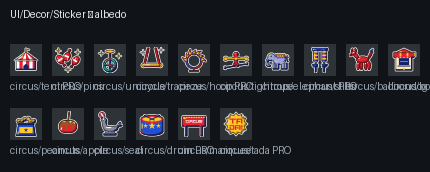
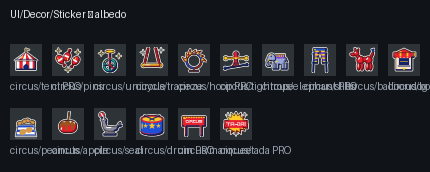
stickers: Circus quality pass (balloondog, peanuts, tada, stilts, tightrope, elephant)
Claude-Session: https://claude.ai/code/session_01Vw2wrLZqzqnm52RH44jqZN

diff --git a/Tools/sticker_packs/circus.py b/Tools/sticker_packs/circus.py
@@ -111,12 +111,12 @@ def _():
     return [fire, hoop, shade, shine]
 
 
-@sticker("circus", "tightrope", "Tightrope", [WHITE, RED, NAVY, GOLD], ink=1.0)
+@sticker("circus", "tightrope", "Tightrope", [BLUE, RED, NAVY, GOLD], ink=1.0)
 def _():
-    rope = U(seg(-0.84, -0.6, 0.84, -0.3, 0.05), circle(-0.84, -0.6, 0.11), circle(0.84, -0.3, 0.11))
-    walker = U(circle(0.0, 0.42, 0.2), taper(0.0, 0.3, 0.0, -0.1, 0.17, 0.12), seg(0.0, -0.1, -0.16, -0.43, 0.1), seg(0.0, -0.1, 0.16, -0.43, 0.1),
-               seg(0.0, 0.22, -0.28, 0.1, 0.085), seg(0.0, 0.22, 0.28, 0.1, 0.085))
-    pole = U(seg(-0.84, 0.1, 0.84, 0.1, 0.075), circle(-0.8, 0.1, 0.16), circle(0.8, 0.1, 0.16), _glint(walker, -0.07, 0.5, 0.04, 0.04, 0.0))
+    rope = U(seg(-0.84, -0.64, 0.84, -0.36, 0.06), circle(-0.84, -0.64, 0.12), circle(0.84, -0.36, 0.12))
+    walker = U(circle(0.0, 0.46, 0.2), taper(0.0, 0.3, 0.0, -0.12, 0.17, 0.12), seg(-0.06, -0.12, -0.14, -0.44, 0.095), seg(0.06, -0.12, 0.14, -0.44, 0.095),
+               oval(-0.2, -0.47, 0.13, 0.07), oval(0.2, -0.47, 0.13, 0.07), seg(-0.1, 0.2, -0.36, 0.14, 0.08), seg(0.1, 0.2, 0.36, 0.14, 0.08))
+    pole = U(seg(-0.84, 0.14, 0.84, 0.14, 0.07), circle(-0.8, 0.14, 0.16), circle(0.8, 0.14, 0.16))
     shade = _rim(U(rope, walker), 0.1)
     return [rope, walker, shade, pole]
 
@@ -128,35 +128,43 @@ def _():
     ear = oval(-0.32, 0.14, 0.17, 0.26, 0.2)
     trunk = brush([(-0.7, 0.12), (-0.84, -0.15), (-0.8, -0.4), (-0.62, -0.46)], [0.13, 0.11, 0.1, 0.09])
     legs = U(box(-0.28, -0.48, 0.12, 0.26, 0.05), box(-0.02, -0.48, 0.12, 0.26, 0.05), box(0.38, -0.48, 0.12, 0.26, 0.05), box(0.62, -0.48, 0.12, 0.26, 0.05))
-    tail = seg(0.62, 0.15, 0.76, -0.12, 0.05)
+    tail = taper(0.6, 0.12, 0.74, -0.14, 0.06, 0.035)
     body = U(torso, head, trunk, legs, tail)
-    blanket = U(box(0.18, 0.32, 0.36, 0.14, 0.05), *[circle(-0.0 + 0.18 * k, 0.2, 0.09) for k in range(5)])
+    blanket = U(box(0.18, 0.32, 0.36, 0.14, 0.05), *[circle(-0.09 + 0.18 * k, 0.2, 0.1) for k in range(4)])
     eye = circle(-0.52, 0.28, 0.05)
-    shade = U(_rim(body, 0.1), eye)
-    trim = U(*[regpoly(0.0 + 0.18 * k, 0.3, 4, 0.075) for k in range(5)], seg(-0.14, 0.43, 0.5, 0.43, 0.03), _glint(head, -0.62, 0.38, 0.1, 0.05, 0.9), _glint(torso, -0.12, -0.12, 0.1, 0.04, 0.4))
+    shade = U(_rim(body, 0.09), _rim(ear, 0.07), eye)
+    trim = U(*[regpoly(-0.09 + 0.18 * k, 0.3, 4, 0.075) for k in range(4)], taper(-0.7, 0.02, -0.8, -0.14, 0.05, 0.03), seg(-0.14, 0.43, 0.5, 0.43, 0.03), _glint(head, -0.62, 0.38, 0.1, 0.05, 0.9), _glint(torso, -0.12, -0.12, 0.1, 0.04, 0.4))
     return [body, blanket, shade, trim]
 
 
 @sticker("circus", "stilts", "Stilts", [PURP, BLUE, NAVY, GOLD], ink=1.0)
 def _():
-    pants = U(seg(-0.32, 0.0, -0.32, 0.58, 0.19), seg(0.32, 0.0, 0.32, 0.58, 0.19))
-    stilts = U(seg(-0.32, -0.88, -0.32, 0.05, 0.055), seg(0.32, -0.88, 0.32, 0.05, 0.055), box(-0.32, -0.5, 0.17, 0.055, 0.03), box(0.32, -0.5, 0.17, 0.055, 0.03),
-               oval(-0.36, -0.38, 0.22, 0.09), oval(0.36, -0.38, 0.22, 0.09), box(0, 0.8, 0.58, 0.11, 0.05))
-    shade = _rim(U(pants, stilts), 0.1)
-    shine = U(inter(pants, stripes(0.26, math.pi / 2, 0.45, 0.04)), _glint(pants, -0.42, 0.28, 0.2, 0.05, math.pi / 2), _glint(stilts, -0.52, 0.8, 0.1, 0.035, 0.0))
-    return [pants, stilts, shade, shine]
+    legs = U(taper(-0.22, 0.58, -0.3, -0.04, 0.2, 0.12), taper(0.22, 0.58, 0.3, -0.04, 0.2, 0.12))
+    poles = U(seg(-0.5, -0.88, -0.46, 0.42, 0.055), seg(0.5, -0.88, 0.46, 0.42, 0.055), box(-0.36, -0.22, 0.2, 0.05, 0.03), box(0.36, -0.22, 0.2, 0.05, 0.03),
+              oval(-0.34, -0.12, 0.2, 0.09), oval(0.34, -0.12, 0.2, 0.09), box(0.0, 0.76, 0.5, 0.13, 0.05), circle(-0.46, 0.46, 0.09), circle(0.46, 0.46, 0.09))
+    shade = _rim(U(legs, poles), 0.1)
+    shine = U(inter(legs, stripes(0.26, math.pi / 2, 0.45, 0.0)), _glint(legs, -0.3, 0.4, 0.14, 0.045, 1.5), _glint(poles, -0.4, 0.78, 0.1, 0.035, 0.0))
+    return [legs, poles, shade, shine]
 
 
 @sticker("circus", "balloondog", "Balloon dog", [RED, BLUE, DKRED, WHITE], ink=1.0)
 def _():
-    parts = [oval(0.05, 0.02, 0.5, 0.26, 0.0), oval(-0.48, 0.34, 0.15, 0.3, 0.7), oval(-0.66, 0.52, 0.22, 0.16, 0.2), oval(-0.88, 0.4, 0.1, 0.1),
-             oval(-0.5, 0.78, 0.08, 0.15, 0.4), oval(-0.78, 0.76, 0.08, 0.15, -0.3),
-             oval(-0.3, -0.45, 0.13, 0.34), oval(-0.04, -0.45, 0.13, 0.34), oval(0.3, -0.45, 0.13, 0.34), oval(0.56, -0.45, 0.13, 0.34),
-             oval(0.66, 0.4, 0.11, 0.34, -0.45)]
+    chest = oval(-0.12, 0.0, 0.3, 0.3)
+    waist = oval(0.2, 0.04, 0.2, 0.2)
+    hips = oval(0.5, 0.0, 0.3, 0.28)
+    neck = oval(-0.3, 0.28, 0.14, 0.22, 0.6)
+    head = circle(-0.44, 0.5, 0.22)
+    snout = oval(-0.7, 0.42, 0.2, 0.13, -0.25)
+    ears = U(oval(-0.5, 0.78, 0.075, 0.15, 0.3), oval(-0.3, 0.74, 0.075, 0.14, -0.3))
+    legs = [oval(-0.26, -0.5, 0.14, 0.3), oval(0.0, -0.5, 0.14, 0.3), oval(0.42, -0.5, 0.14, 0.3), oval(0.66, -0.5, 0.14, 0.3)]
+    tail = oval(0.76, 0.36, 0.11, 0.3, -0.4)
+    parts = [chest, waist, hips, neck, head, snout, ears, *legs, tail]
     balloon = U(*parts)
-    tie = U(circle(0.74, 0.72, 0.08), seg(0.74, 0.72, 0.84, 0.84, 0.05), seg(0.74, 0.72, 0.84, 0.6, 0.05))
-    shade = U(*[_rim(p, 0.1) for p in parts])
-    shine = U(*[_glint(p, x, y, 0.08, 0.03, 0.4) for p, x, y in [(parts[0], -0.2, 0.15), (parts[2], -0.7, 0.58), (parts[6], -0.36, -0.3), (parts[8], 0.24, -0.3)]])
+    tie = U(circle(0.86, 0.66, 0.085), seg(0.86, 0.66, 0.9, 0.82, 0.05), seg(0.86, 0.66, 0.78, 0.8, 0.05))
+    twists = U(seg(0.05, -0.1, 0.05, 0.2, 0.04), seg(0.38, -0.1, 0.38, 0.2, 0.04), seg(-0.34, 0.14, -0.2, 0.3, 0.04), seg(-0.58, 0.46, -0.58, 0.34, 0.04))
+    shade = U(*[_rim(q, 0.08) for q in parts], twists)
+    shine = U(_glint(chest, -0.22, 0.12, 0.1, 0.05, 0.9), _glint(hips, 0.4, 0.1, 0.1, 0.05, 0.9), _glint(head, -0.52, 0.58, 0.07, 0.045, 0.9),
+              _glint(legs[0], -0.3, -0.42, 0.14, 0.04, math.pi / 2), _glint(legs[2], 0.38, -0.42, 0.14, 0.04, math.pi / 2))
     return [balloon, tie, shade, shine]
 
 
@@ -172,14 +180,24 @@ def _():
     return [house, awning_roof, shade, shine]
 
 
-@sticker("circus", "peanuts", "Peanut bag", [BLUE, "#E0A94A", GOLD, NAVY], ink=1.0)
+def _nut(cx, cy, s=1.0, ang=0.0):
+    """A peanut shell: two lobes pinched at the waist."""
+    with rotated(ang, cx, cy):
+        d = U(oval(cx - 0.15 * s, cy, 0.15 * s, 0.125 * s), oval(cx + 0.15 * s, cy, 0.15 * s, 0.125 * s), box(cx, cy, 0.14 * s, 0.06 * s))
+    return d
+
+
+@sticker("circus", "peanuts", "Peanut bag", [WHITE, BLUE, "#9FB4EE", "#D69A4A"], ink=1.0)
 def _():
-    bag = poly([(-0.58, 0.02), (0.58, 0.02), (0.72, -0.88), (-0.72, -0.88)])
-    nuts = U(*[U(circle(x - 0.13, y, 0.16), circle(x + 0.13, y + 0.02, 0.16)) for x, y in [(-0.4, 0.22), (0.05, 0.36), (0.45, 0.2)]])
-    flap = box(0, -0.02, 0.62, 0.07, 0.03)
-    label = U(box(0, -0.45, 0.5, 0.22, 0.05), _glint(bag, -0.6, -0.72, 0.2, 0.05, math.pi / 2 - 0.1))
-    shade = U(_rim(U(bag, nuts), 0.1), flap, star(0, -0.45, 5, 0.15, 0.065))
-    return [bag, nuts, label, shade]
+    bag = poly([(-0.6, -0.1), (0.6, -0.1), (0.76, -0.9), (-0.76, -0.9)])
+    rim = box(0, -0.1, 0.66, 0.08, 0.03)
+    top = U(bag, rim)
+    stripes_ = inter(bag, stripes(0.34, math.pi / 2, 0.5, 0.0))
+    spill = U(_nut(-0.3, 0.12, 1.25, 0.35), _nut(0.32, 0.18, 1.25, -0.35))
+    emblem = _nut(0.0, -0.52, 1.7, 0.3)
+    nuts = U(spill, emblem)
+    shade = _rim(top, 0.1)
+    return [top, stripes_, shade, nuts]
 
 
 @sticker("circus", "apple", "Caramel apple", [RED, CARA, DKRED, WHITE], ink=1.0)
@@ -232,10 +250,11 @@ def _():
     return [board, letters, shade, bulbs]
 
 
-@sticker("circus", "tada", "Ta-da!", [GOLD, RED, "#D99A00", WHITE], ink=1.0)
+@sticker("circus", "tada", "Ta-da!", [GOLD, RED, "#A5121C", WHITE], ink=1.0)
 def _():
-    burst = star(0.0, 0.0, 12, 0.84, 0.66)
-    words = U(text("TA", 0.0, 0.22, 0.4, maxw=1.0), text("DA!", 0.0, -0.26, 0.4, maxw=1.0))
-    shade = _rim(burst, 0.1)
-    shine = U(_star_dots([(-0.5, 0.5), (0.5, -0.5), (0.52, 0.5), (-0.5, -0.5)], 0.09), _glint(burst, -0.55, 0.15, 0.1, 0.03, 1.0))
-    return [burst, words, shade, shine]
+    burst = star(0.0, 0.05, 14, 0.9, 0.62)
+    banner = U(box(0.0, 0.0, 0.88, 0.3, 0.04), box(-0.8, -0.16, 0.12, 0.18, 0.03), box(0.8, -0.16, 0.12, 0.18, 0.03))
+    words = text("TA-DA!", 0.0, 0.0, 0.5, maxw=1.5)
+    shade = _rim(U(burst, banner), 0.1)
+    words = U(words, _star_dots([(-0.62, 0.7), (0.66, 0.7), (0.0, -0.74)], 0.1))
+    return [burst, banner, shade, words]
